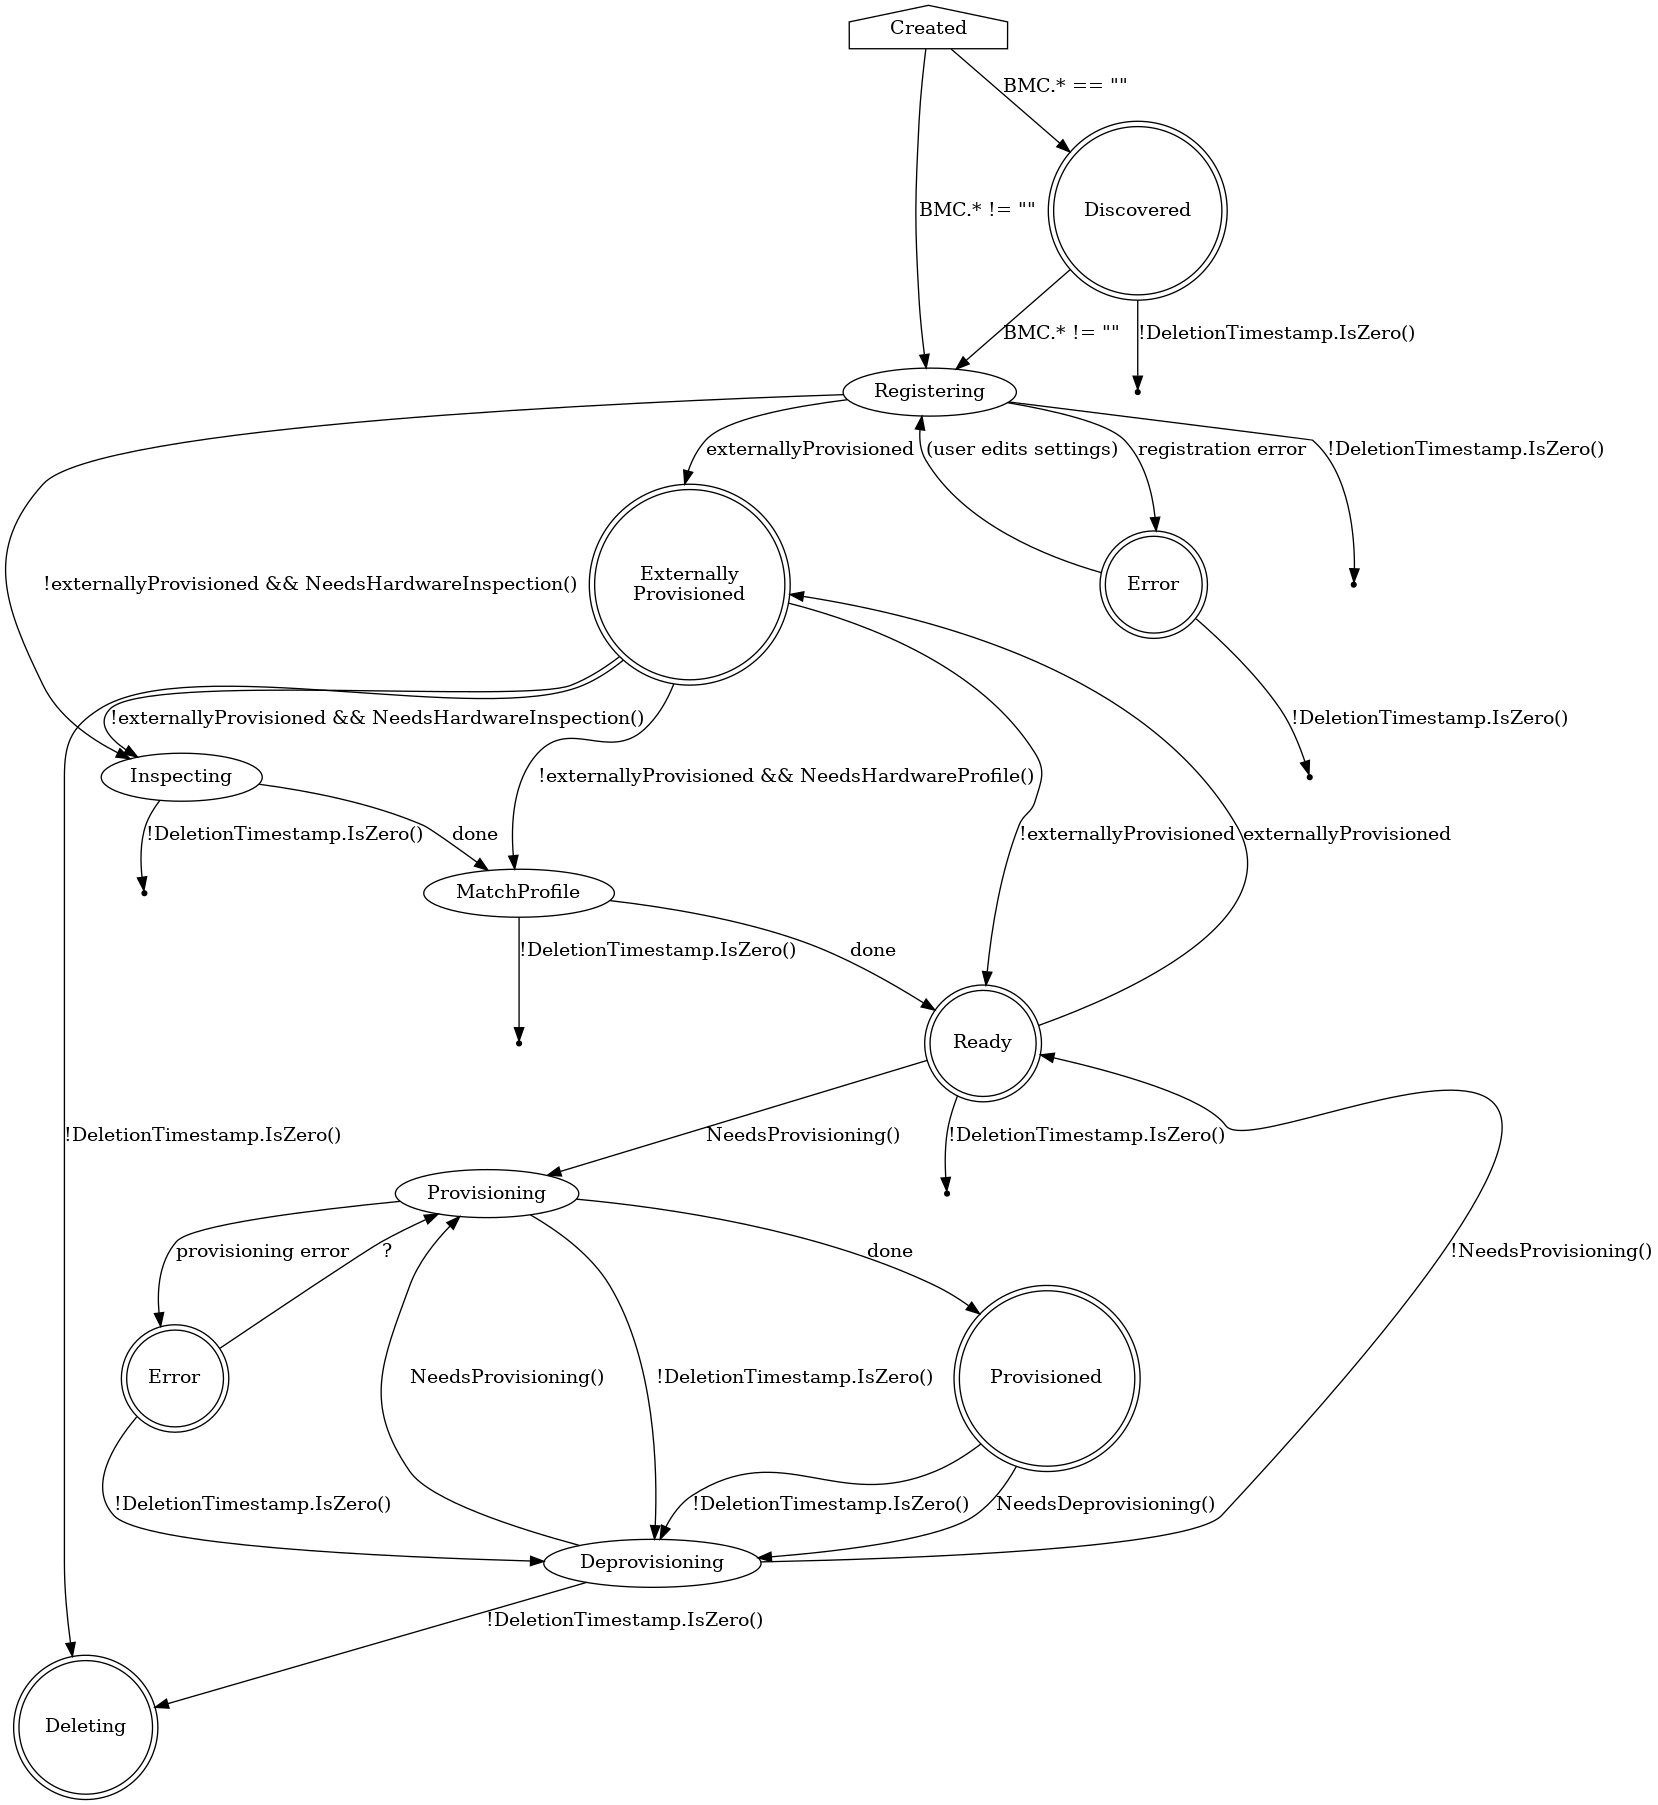
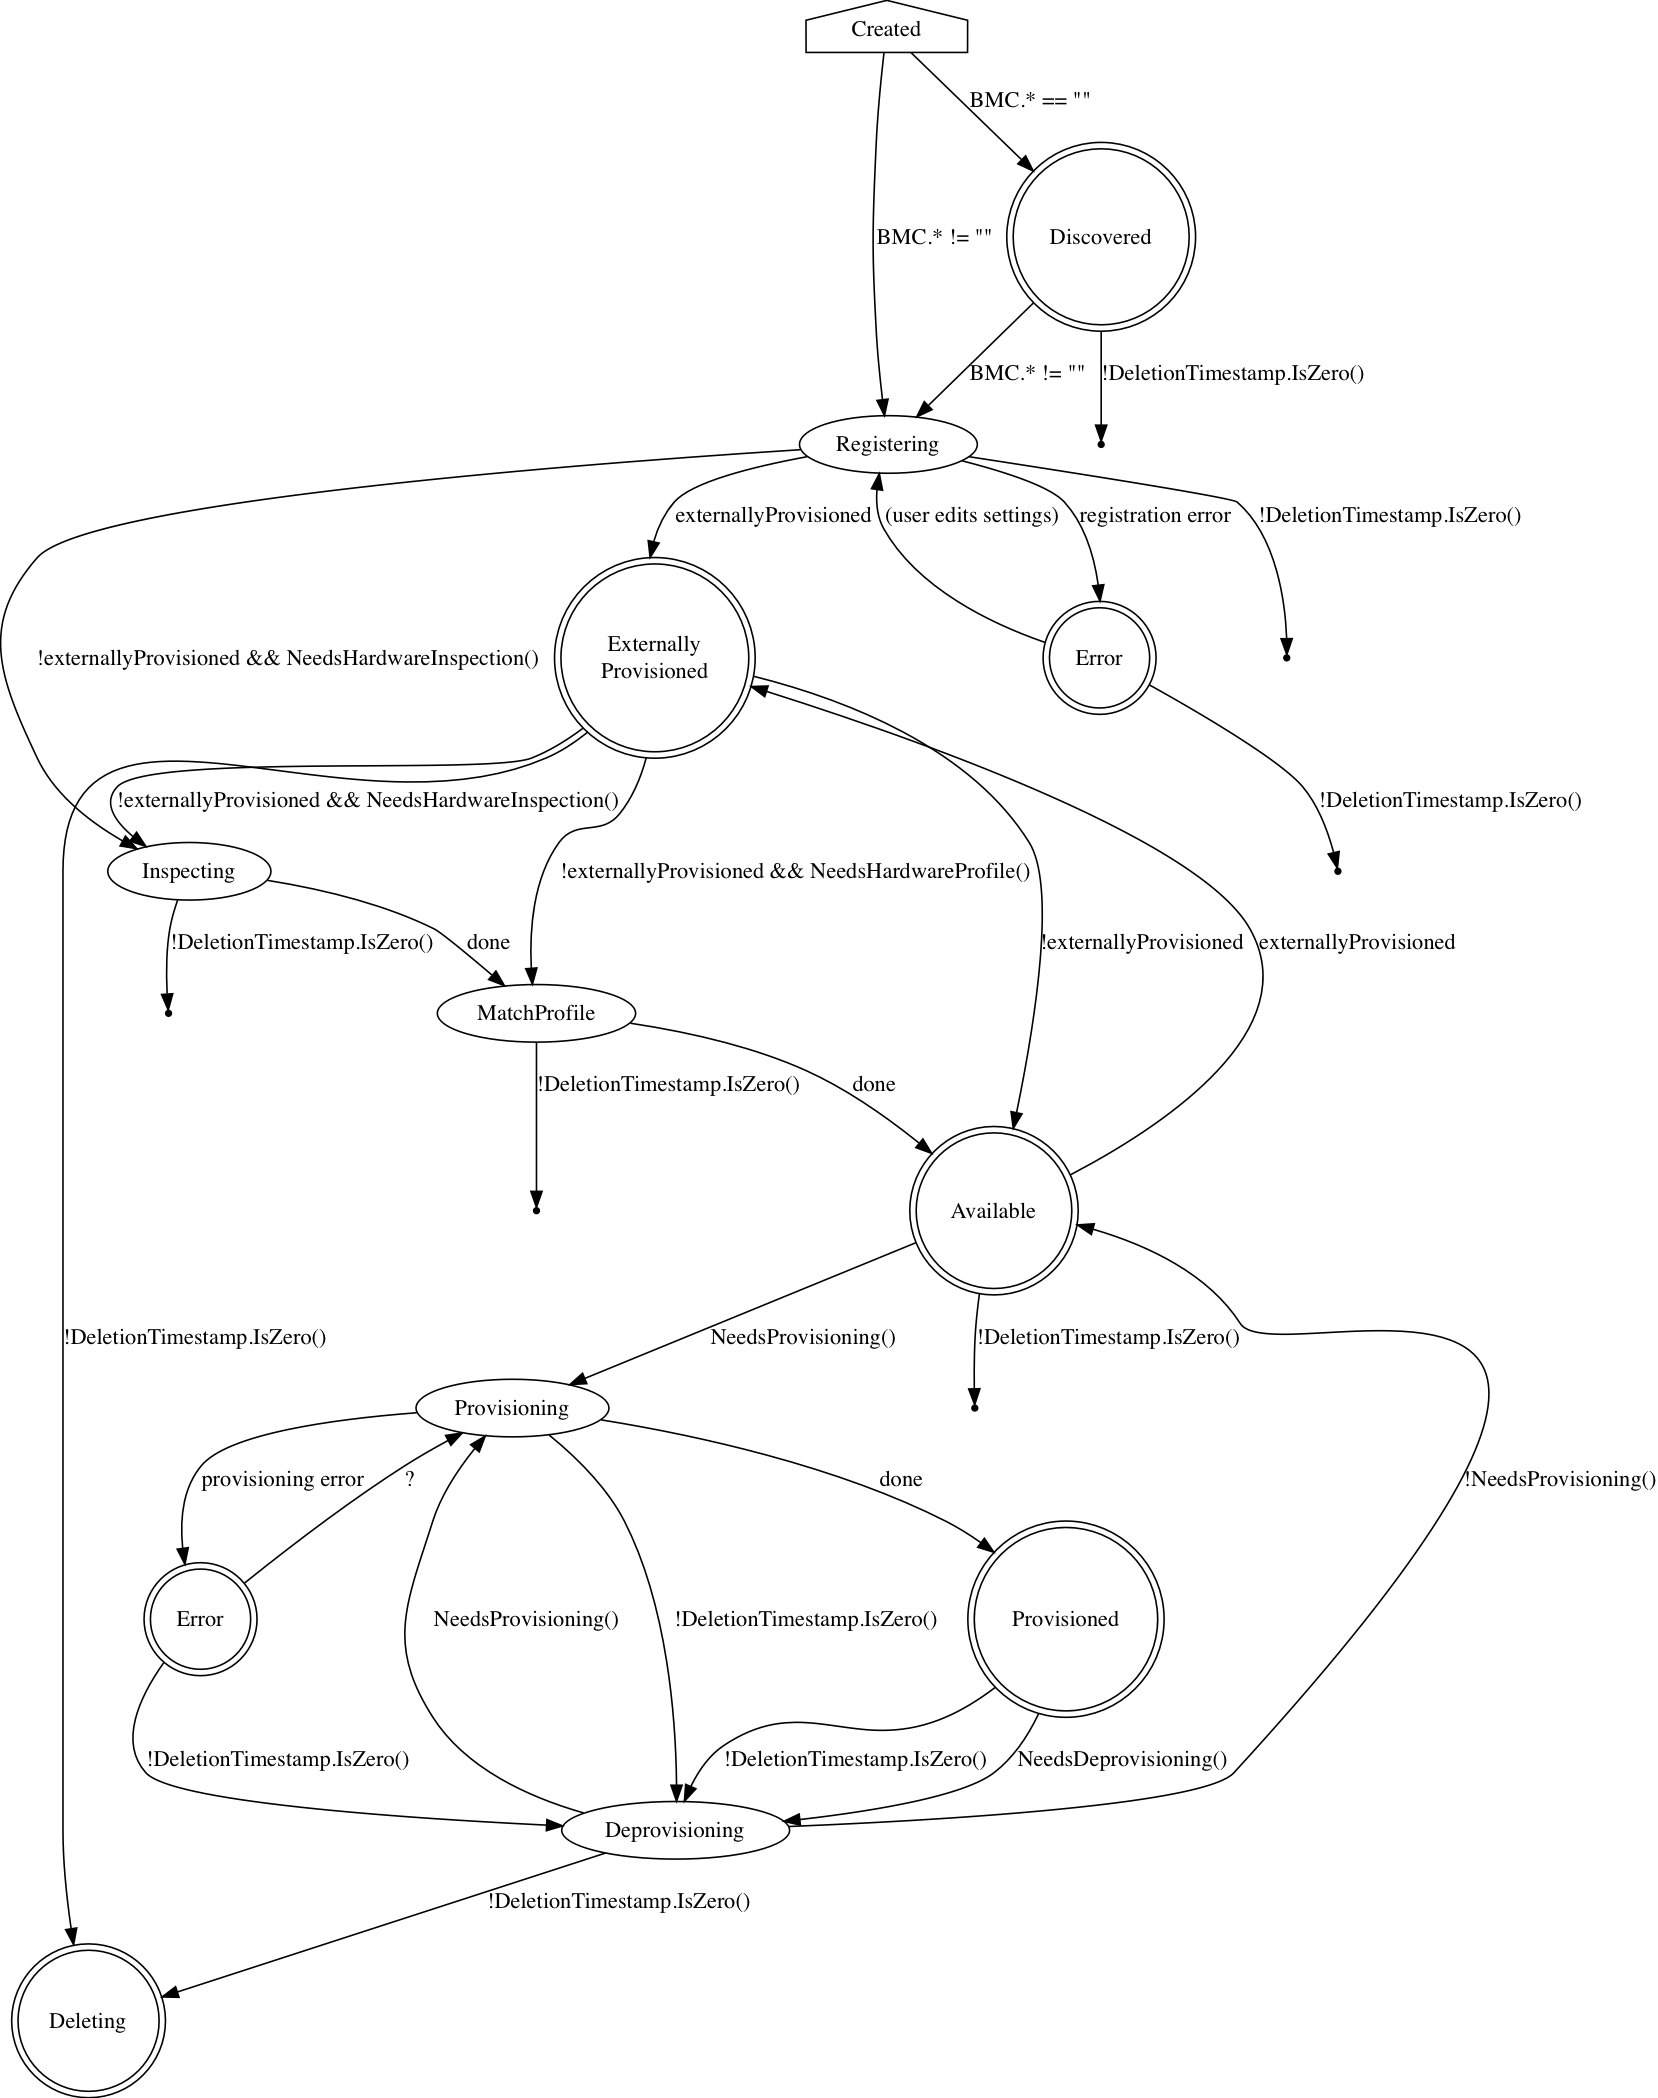
Update docs with new Available status
Changes Ready to Available in the documentation.

diff --git a/docs/statusAnnotation.md b/docs/statusAnnotation.md
@@ -5,7 +5,7 @@ regarding the BMH's state. If the _Status_ is not moved with the object when we
 pivot the BMH from the management cluster to target cluster , the
 Baremetal Operator(BMO) considers it as a new object and triggers introspection
 for the BMH since its _Status_ is empty. _Status_ being empty means although the
- BMH had a _ready_ state in management cluster (for example), it would be again
+ BMH had an _available_ state in management cluster (for example), it would be again
  in _registering_ and _inspecting_ states in target cluster since we have an
  BMH with empty _Status_ in hand. This is the
 main motivation to take the BMH _Status_ also with the object when we move the

diff --git a/docs/api.md b/docs/api.md
@@ -229,7 +229,7 @@ details, etc.
     * *registering* -- The host's BMC details are being checked.
     * *match profile* -- The discovered hardware details on the host
       are being compared against known profiles.
-    * *ready* -- The host is available to be consumed.
+    * *available* -- The host is available to be consumed.
     * *provisioning* -- An image is being written to the host's disk(s).
     * *provisioning error* -- The image could not be written to the host.
     * *provisioned* -- An image has been completely written to the host's

diff --git a/docs/baremetalhost-states.md b/docs/baremetalhost-states.md
@@ -41,9 +41,9 @@ will stay in the Inspecting state until this process is completed.
 A host in the Match Profile state is being matched against a hardware
 profile.
 
-## Ready
+## Available
 
-A host in the Ready state is available to be provisioned.
+A host in the Available state is available to be provisioned.
 
 ## Provisioning
 
